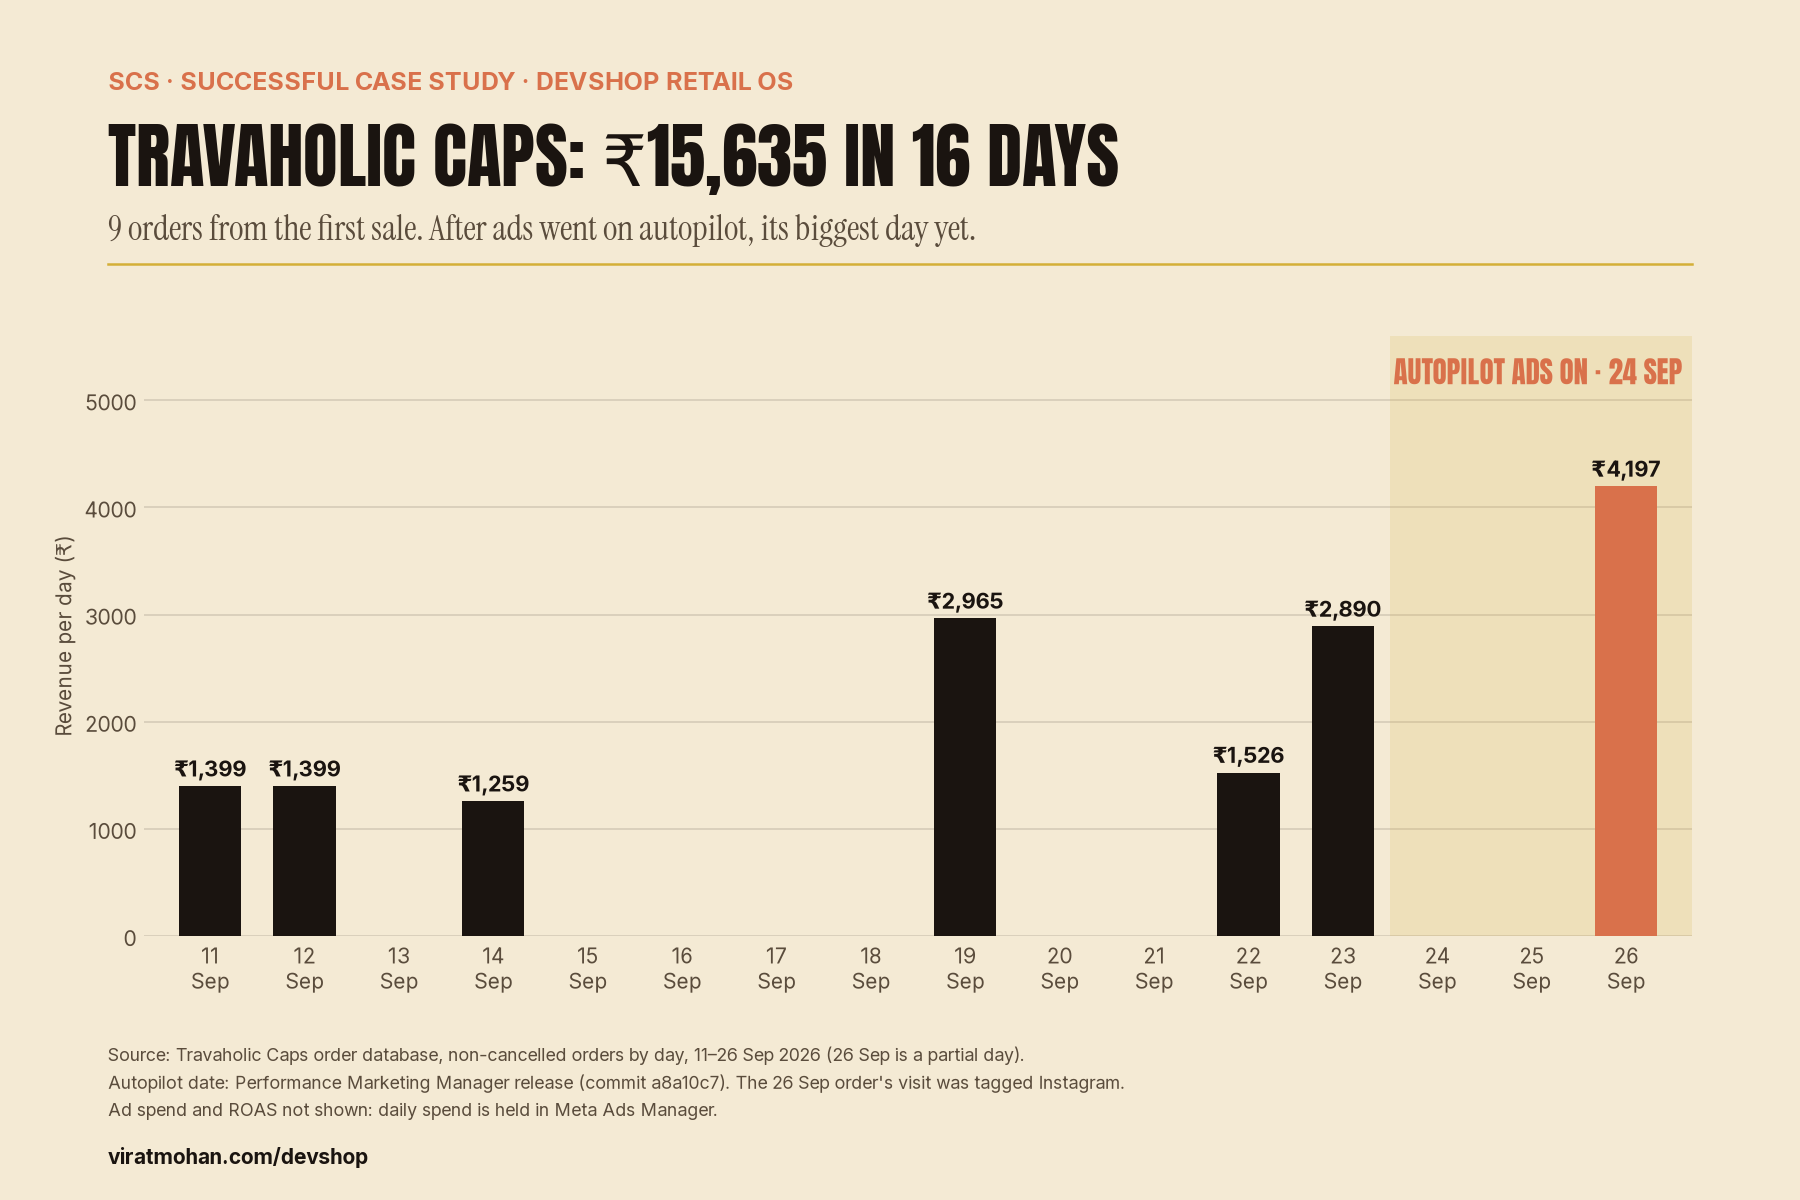
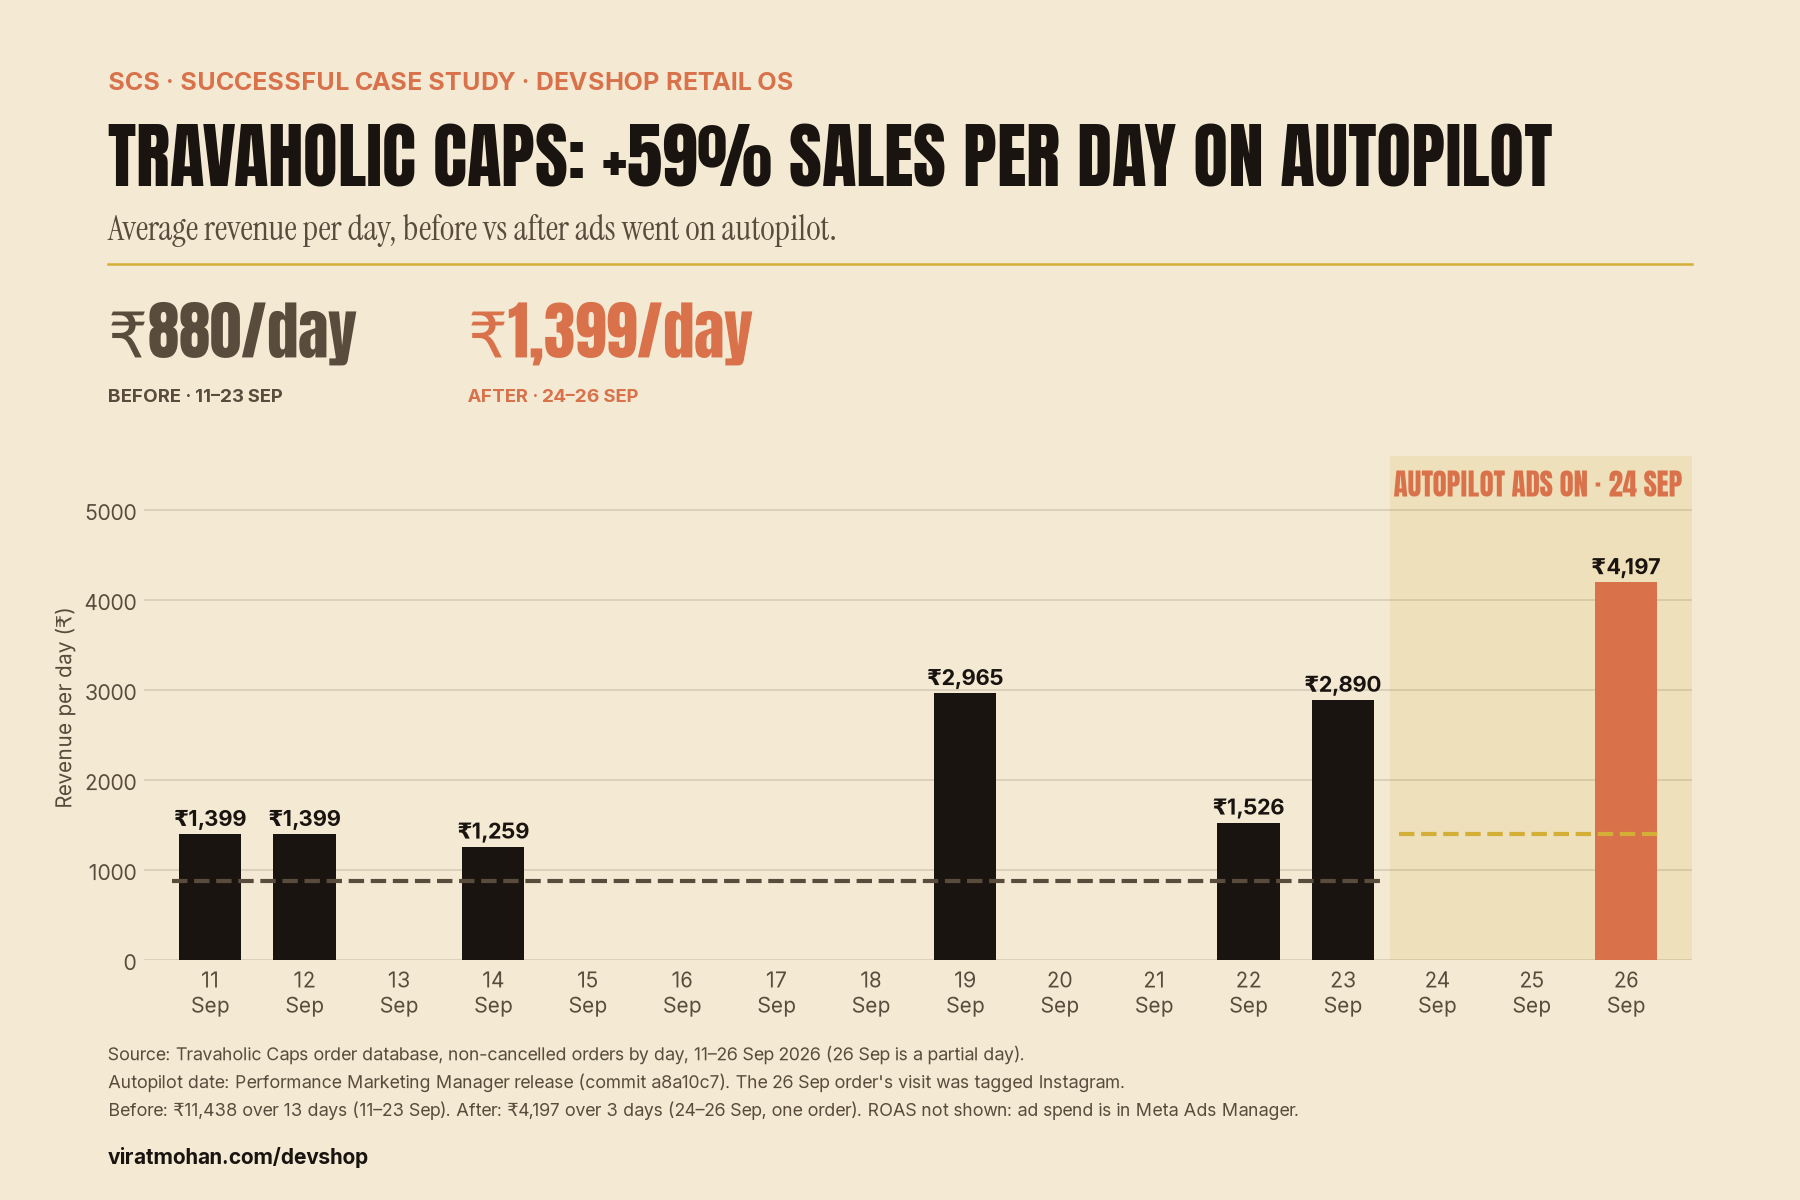
SCS: like-for-like revenue per day before vs after autopilot (+59%)
Claude-Session: https://claude.ai/code/session_01WjEfTEk6Up17zcyrZn3eyj

diff --git a/case-study/travaholic.py b/case-study/travaholic.py
@@ -7,12 +7,12 @@ o = {11: 1399, 12: 1399, 14: 1259, 19: 2965, 22: 1526, 23: 2890, 26: 4197}
 days = [D(2026, 9, d) for d in range(11, 27)]; rev = [o.get(d.day, 0) for d in days]; auto = D(2026, 9, 24)
 
 fig = plt.figure(figsize=(12, 8))
-frame(fig, "SCS · Successful Case Study · DevShop Retail OS", "Travaholic Caps: ₹15,635 in 16 days",
-      "9 orders from the first sale. After ads went on autopilot, its biggest day yet.",
+frame(fig, "SCS · Successful Case Study · DevShop Retail OS", "Travaholic Caps: +59% sales per day on autopilot",
+      "Average revenue per day, before vs after ads went on autopilot.",
       "Source: Travaholic Caps order database, non-cancelled orders by day, 11–26 Sep 2026 (26 Sep is a partial day).\n"
       "Autopilot date: Performance Marketing Manager release (commit a8a10c7). The 26 Sep order's visit was tagged Instagram.\n"
-      "Ad spend and ROAS not shown: daily spend is held in Meta Ads Manager.")
-ax = fig.add_axes([.08, .22, .86, .5]); clean(ax)
+      "Before: ₹11,438 over 13 days (11–23 Sep). After: ₹4,197 over 3 days (24–26 Sep, one order). ROAS not shown: ad spend is in Meta Ads Manager.")
+ax = fig.add_axes([.08, .2, .86, .42]); clean(ax)
 ax.axvspan(auto - T(.5), days[-1] + T(.7), color=GOLD, alpha=.16, lw=0)
 ax.bar(days, rev, color=[TERRACOTTA if d >= auto else INK for d in days], width=.66)
 for d, r in zip(days, rev):
@@ -21,4 +21,10 @@ ax.text(days[-1] + T(.6), 5150, "AUTOPILOT ADS ON · 24 SEP", family=DISPLAY, co
 ax.set_ylim(0, 5600); ax.set_xlim(days[0] - T(.7), days[-1] + T(.7))
 ax.set_xticks(days); ax.xaxis.set_major_formatter(md.DateFormatter("%d\n%b"))
 ax.set_ylabel("Revenue per day (₹)")
+for x0,x1,v in [(days[0],D(2026,9,23),880),(auto,days[-1],1399)]:
+    ax.hlines(v,x0-T(.4),x1+T(.4),colors=GOLD if v>1000 else DIM,lw=2,ls="--")
+fig.text(.06,.685,"₹880/day",family=DISPLAY,fontsize=30,color=DIM,va="bottom")
+fig.text(.06,.665,"BEFORE · 11–23 SEP",fontsize=9,color=DIM,weight="bold")
+fig.text(.26,.685,"₹1,399/day",family=DISPLAY,fontsize=30,color=TERRACOTTA,va="bottom")
+fig.text(.26,.665,"AFTER · 24–26 SEP",fontsize=9,color=TERRACOTTA,weight="bold")
 fig.savefig(__file__.replace(".py", "-scs.png"), dpi=150)
